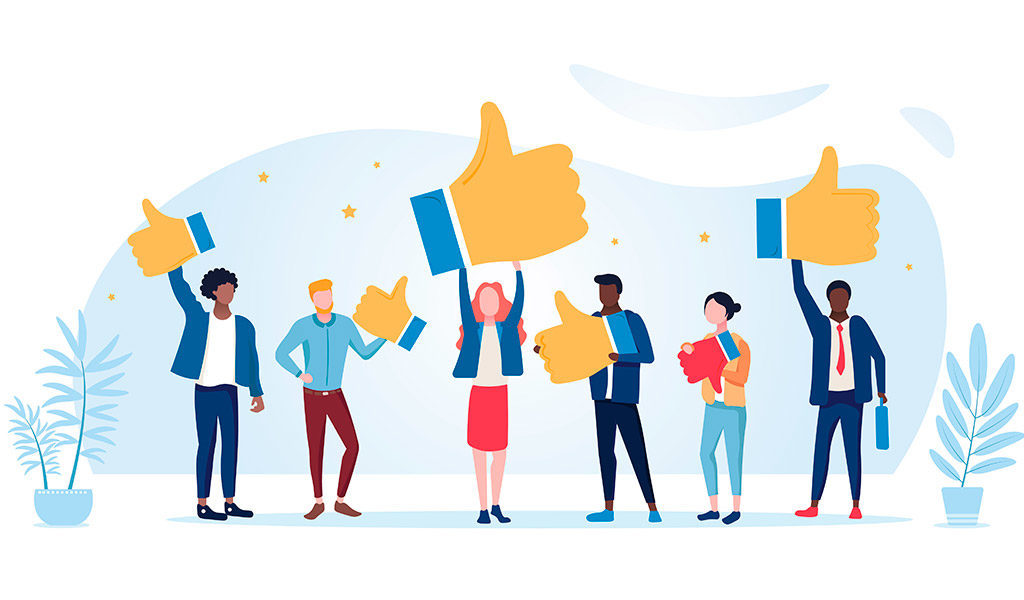
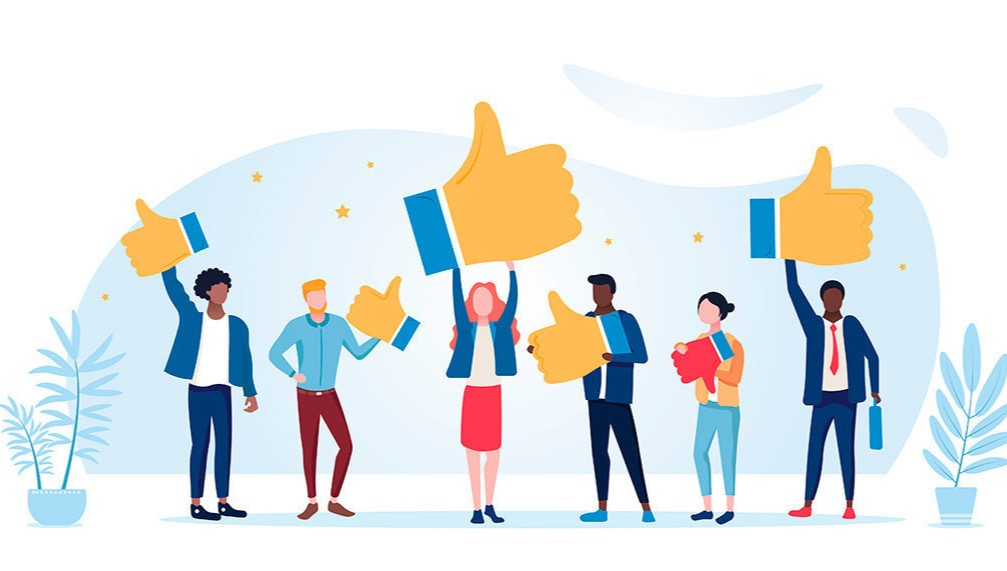
readjusted image size

diff --git a/index.html b/index.html
@@ -147,7 +147,7 @@
                                 <div class="portfolio-hover">
                                     <div class="portfolio-hover-content"><i class="fas fa-plus fa-3x"></i></div>
                                 </div>
-                                <img class="img-fluid" src="assets/img/portfolio/money.jpg" alt="..." />
+                                <img class="img-fluid" src="assets/img/portfolio/atm.jpg" alt="..." />
                             </a>
                             <div class="portfolio-caption">
                                 <div class="portfolio-caption-heading">ATM</div>

diff --git a/css/styles.css b/css/styles.css
@@ -601,7 +601,6 @@ progress {
 
 .img-fluid {
   width: 100%;
-  height: auto;
   max-height: 100%;
   overflow:hidden;
 }
